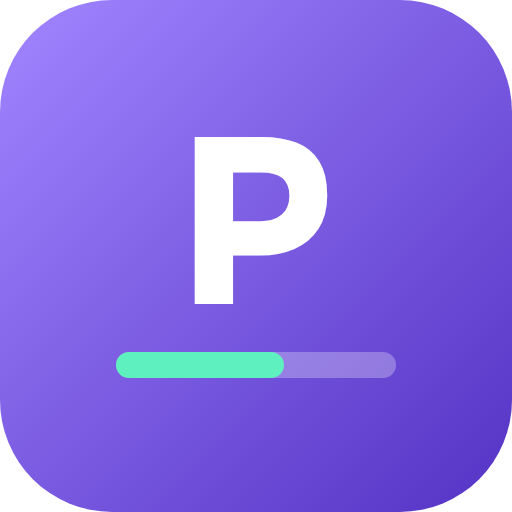
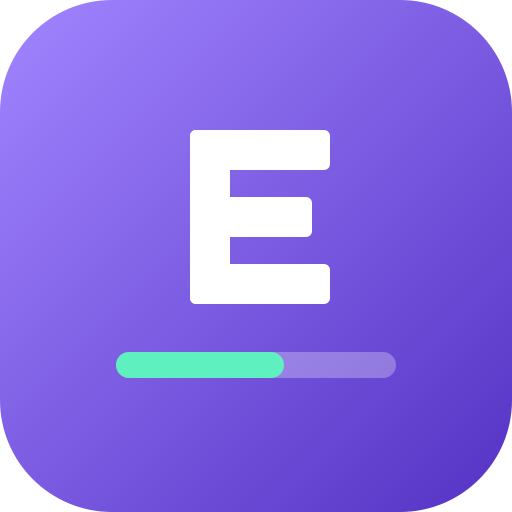
Логотип: буква E вместо Р под название Eppaz
Перерисованы icon.svg и все PNG-иконки (192, 512, maskable, apple-touch); к ссылкам на иконки добавлен ?v=2, чтобы телефоны не брали старую из кеша.

Claude-Session: https://claude.ai/code/session_0171BRyCnjMUDvLueo9PsZXR

Changed region(s): [[0.3438, 0.25, 0.6562, 0.5938]]

diff --git a/index.html b/index.html
@@ -10,8 +10,8 @@
     <meta name="apple-mobile-web-app-title" content="Eppaz" />
     <meta name="format-detection" content="telephone=no" />
     <link rel="manifest" href="./manifest.webmanifest" />
-    <link rel="icon" href="./icon.svg" type="image/svg+xml" />
-    <link rel="apple-touch-icon" href="./apple-touch-icon.png" />
+    <link rel="icon" href="./icon.svg?v=2" type="image/svg+xml" />
+    <link rel="apple-touch-icon" href="./apple-touch-icon.png?v=2" />
     <title>Eppaz</title>
   </head>
   <body>
